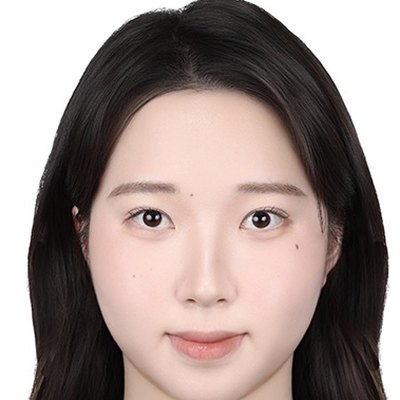
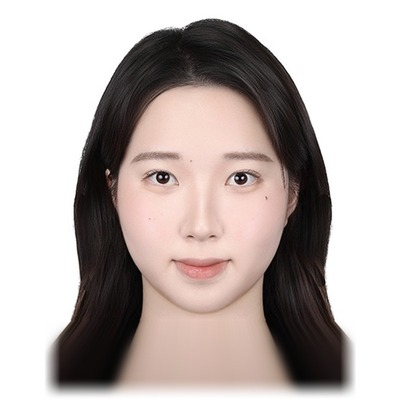
구성원 카드: 권가은 프로필 얼굴 비율 정리 · 송도윤·박종혜 이니셜을 꽃 이미지로

diff --git a/data/members.js b/data/members.js
@@ -11,6 +11,8 @@
       - links 는 [{ "label": "Google Scholar", "href": "https://..." }] 형태입니다.
    5) 사진을 넣으려면 assets/members/ 에 정사각형 이미지를 넣고
       "photo": "assets/members/내이름.jpg" 한 줄을 추가합니다.
+      (아직 사진이 없을 때 이니셜 대신 보여 줄 그림을 쓰려면
+       "avatar": "assets/members/꽃.jpg" 를 씁니다. 사진이 있으면 사진이 먼저 나옵니다.)
    6) 저장하고 커밋하면 사이트 카드에 바로 반영됩니다.
 
    잘 모르겠으면 사이트의 「내 소개글 작성하기」를 쓰세요.
@@ -43,6 +45,7 @@ window.LAB_MEMBERS = [
     "id": "doyun-song",
     "name": "송도윤",
     "nameEn": "Song Doyun",
+    "avatar": "assets/members/flower-doyun-song.jpg",
     "program": "phd",
     "tag": "박사과정",
     "pending": true,
@@ -73,6 +76,7 @@ window.LAB_MEMBERS = [
     "id": "jonghye-park",
     "name": "박종혜",
     "nameEn": "Park Jonghye",
+    "avatar": "assets/members/flower-jonghye-park.jpg",
     "program": "phd",
     "tag": "박사과정",
     "pending": true,

diff --git a/app.js b/app.js
@@ -555,6 +555,11 @@
         '<span class="member-avatar"><img src="' +
         esc(m.photo) +
         '" alt="" width="40" height="40" loading="lazy" decoding="async" /></span>';
+    } else if (m.avatar) {
+      html +=
+        '<span class="member-avatar member-avatar--flower"><img src="' +
+        esc(m.avatar) +
+        '" alt="" width="40" height="40" loading="lazy" decoding="async" /></span>';
     } else {
       html += '<span class="member-initial" aria-hidden="true">' + esc(initial) + "</span>";
     }

diff --git a/style.css b/style.css
@@ -930,6 +930,7 @@ code { font-family: var(--mono); font-size: 0.92em; }
   background: var(--cream);
 }
 .member-avatar img { width: 100%; height: 100%; object-fit: cover; display: block; }
+.member-avatar--flower { background: var(--sand); }
 .member-id { flex: 1; min-width: 0; }
 .member-id h4 {
   margin: 0;
